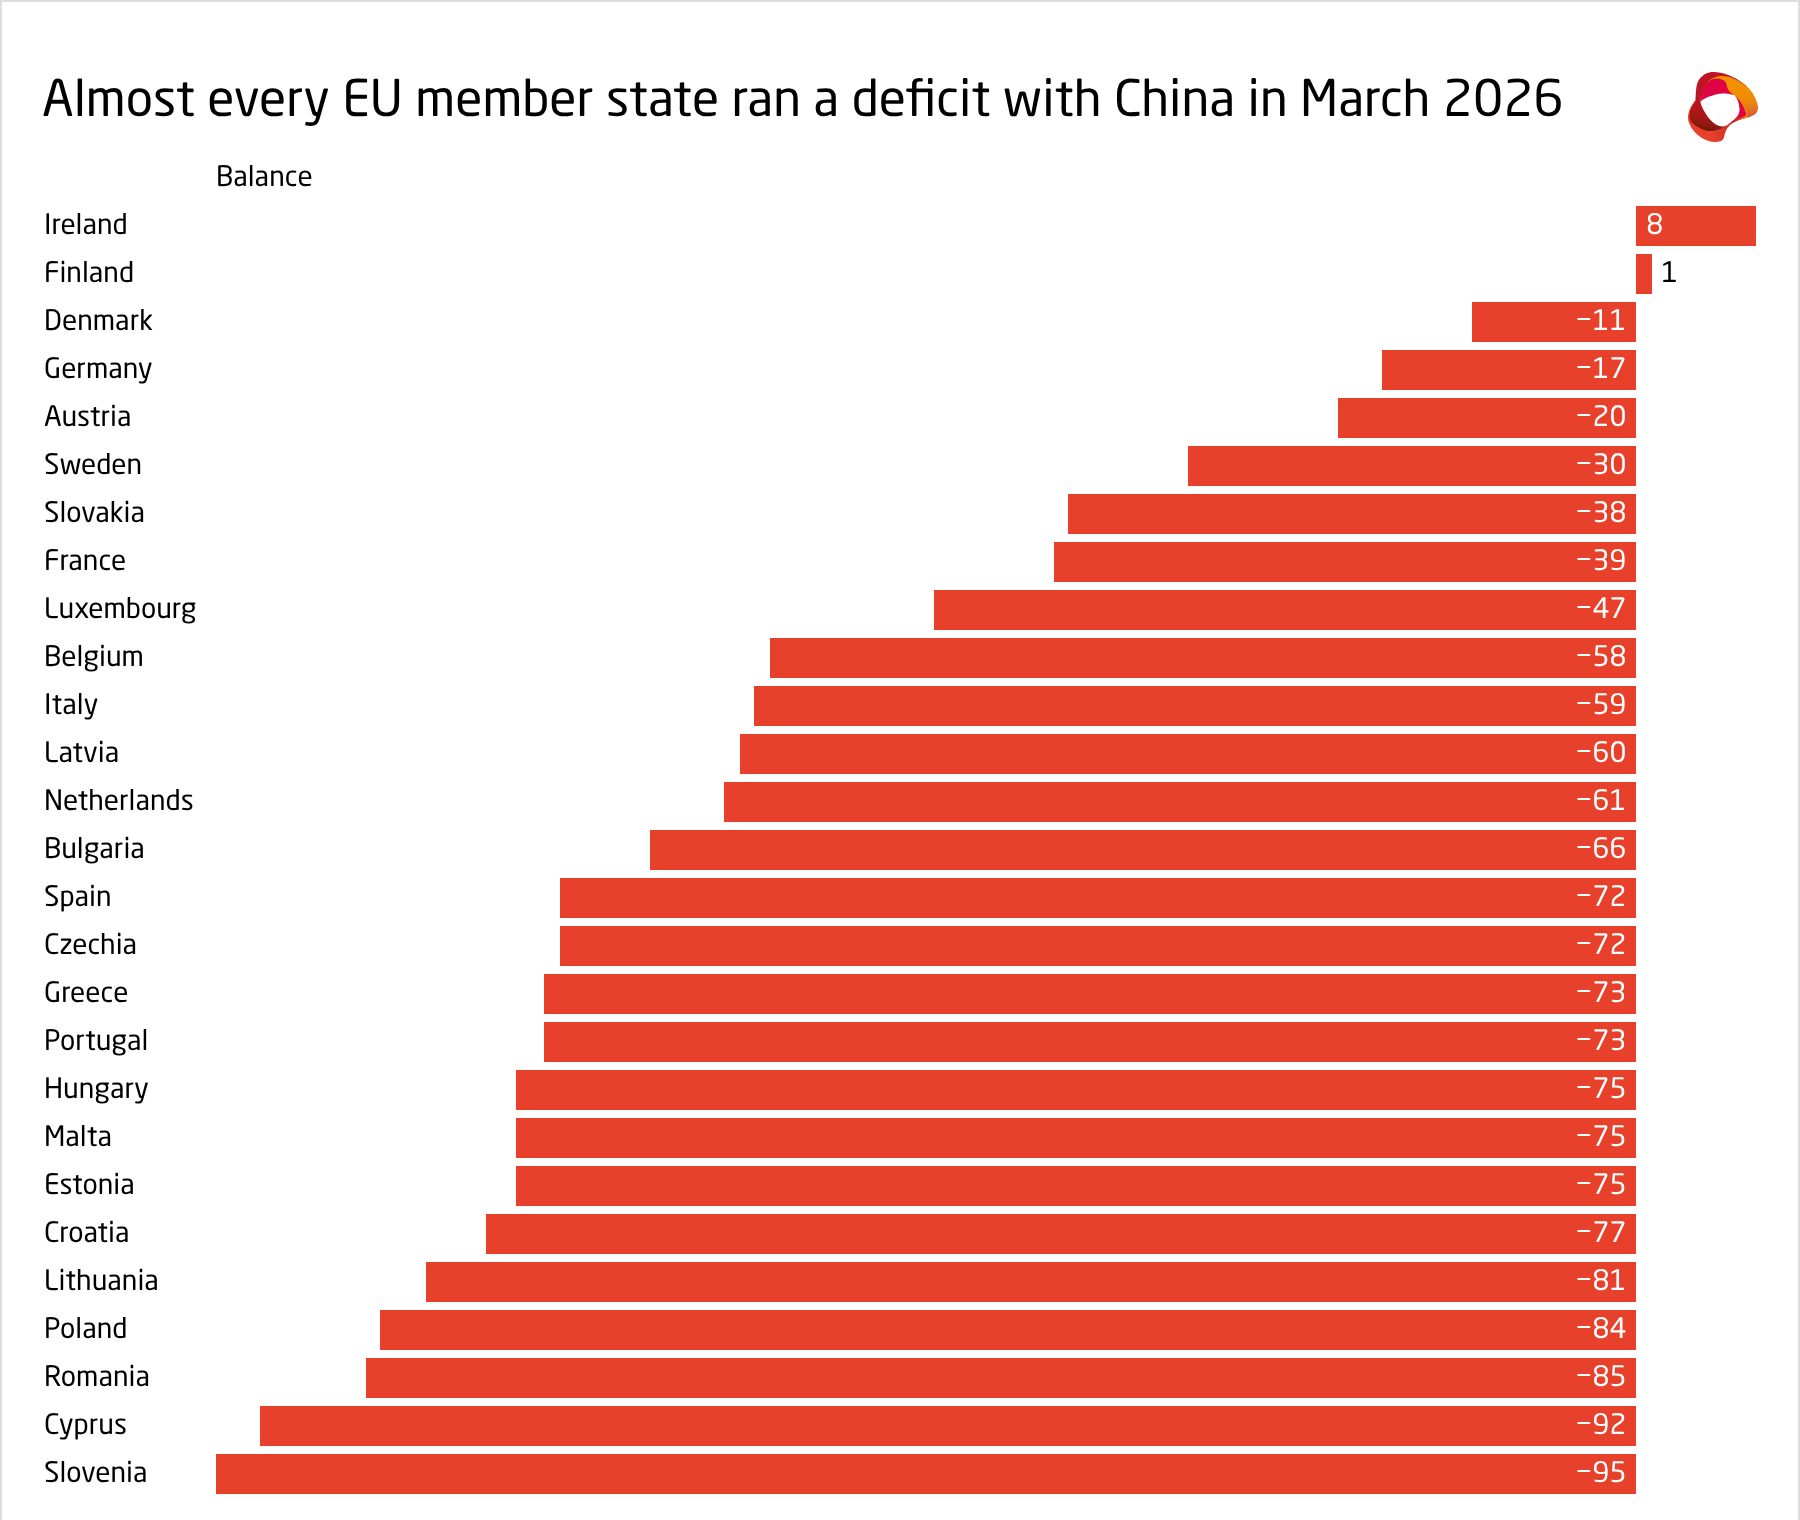
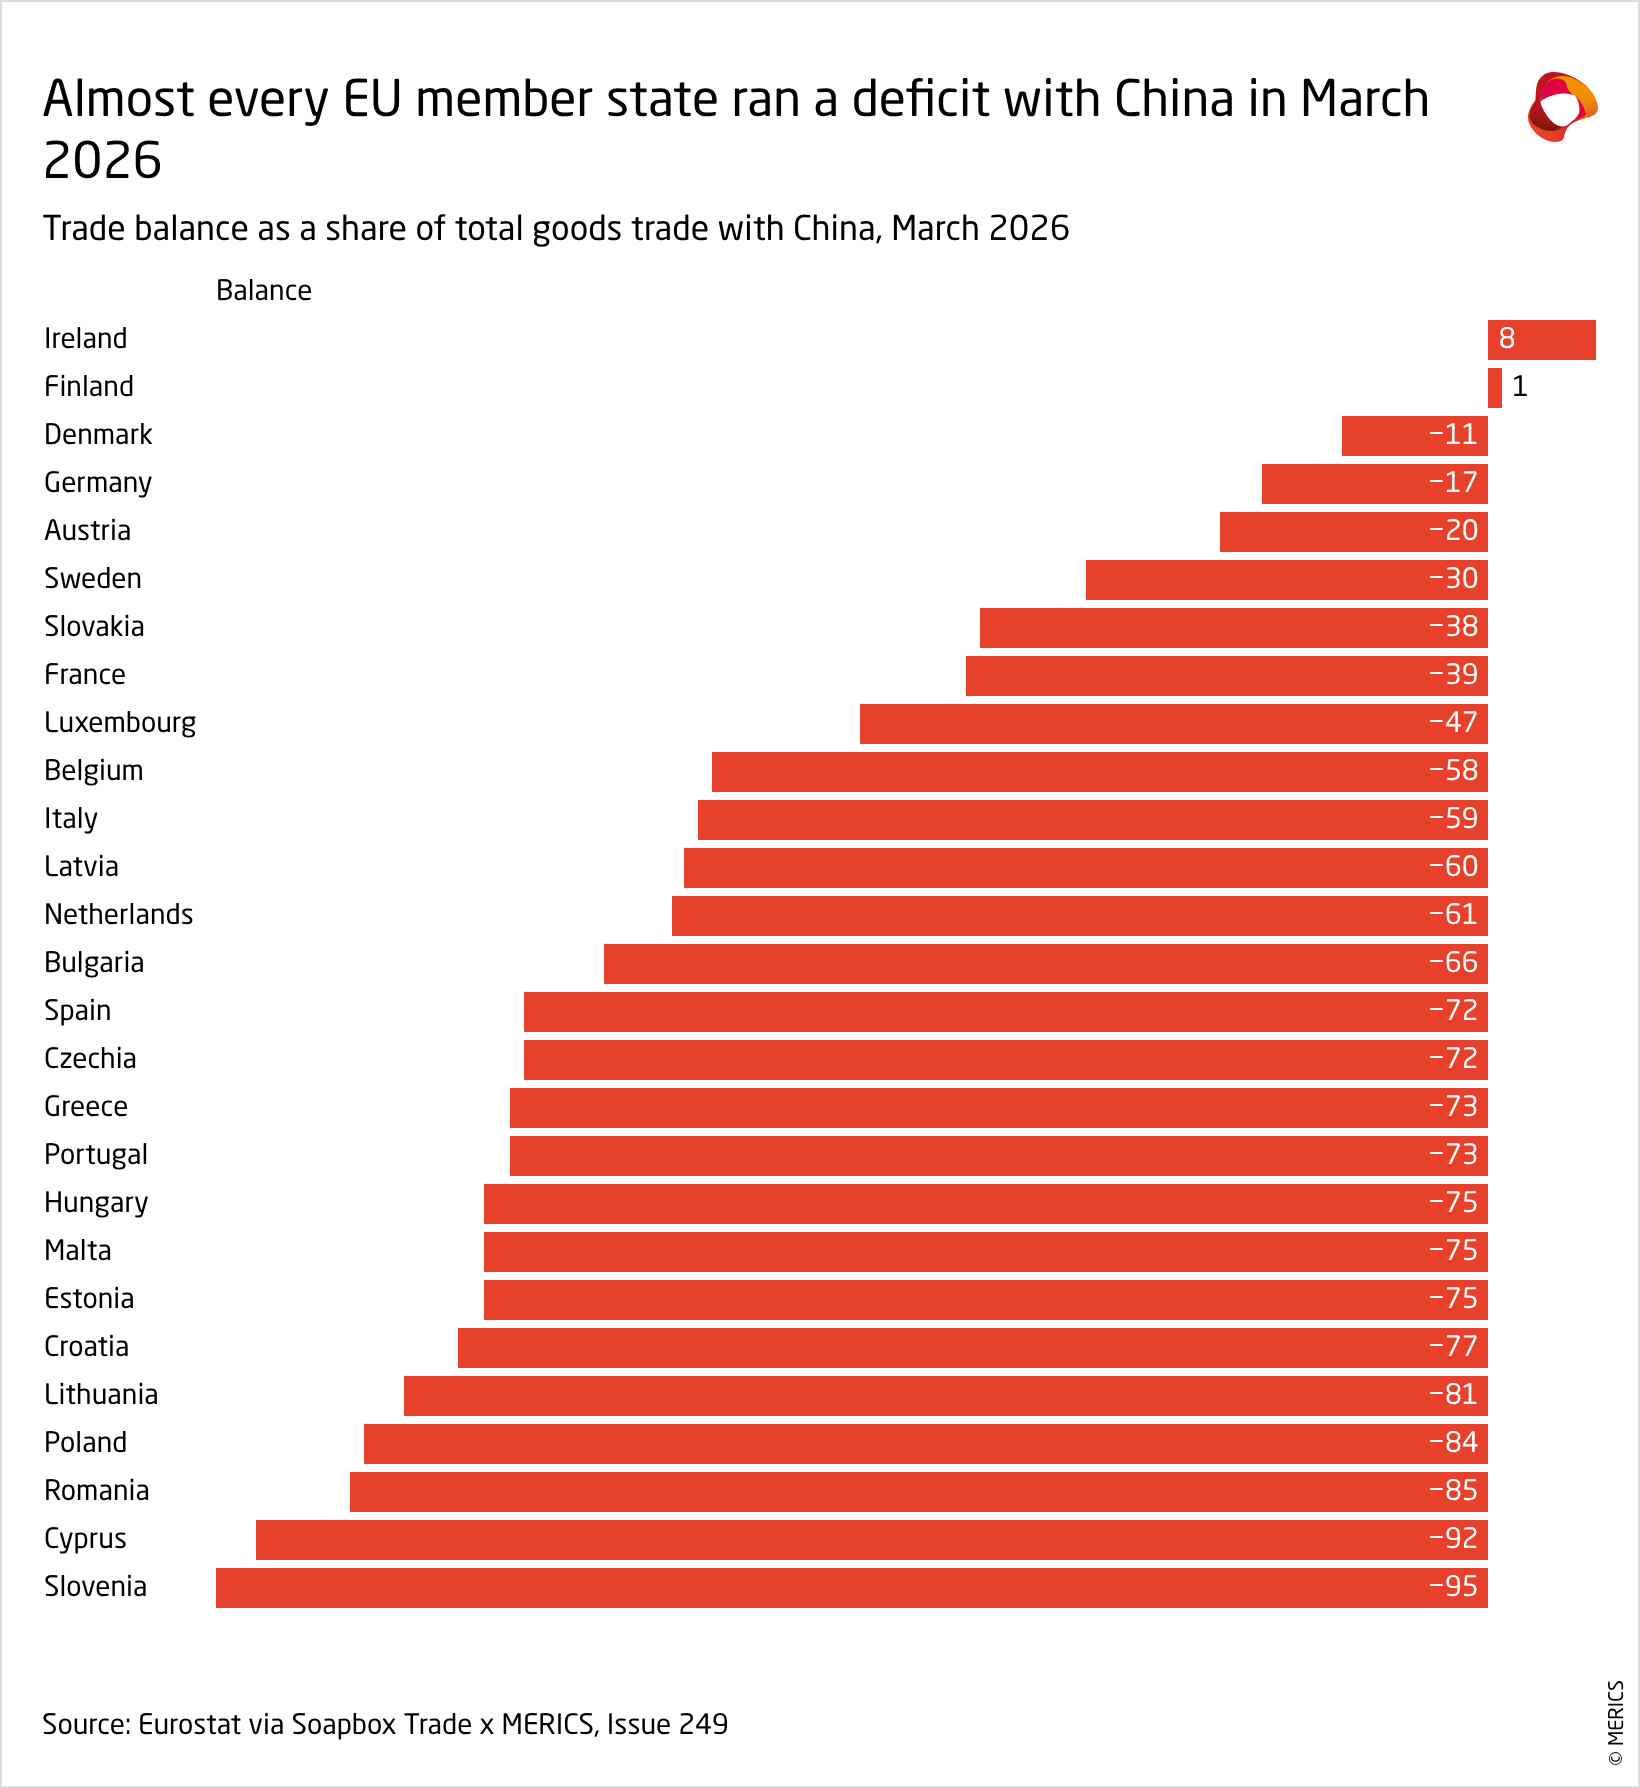
W21: MERICS podcast/Soapbox/Stec split out of Essentials; Chart 4 % unit; cache 20260527n

Changed region(s): [[0.0311, 0.0309, 0.9951, 0.9895], [0.9329, 0.0309, 0.9951, 0.0928], [0.964, 0.9586, 0.9951, 0.9895]]

diff --git a/data/W21-2026.js b/data/W21-2026.js
@@ -386,15 +386,44 @@ window.W21_2026 = {
                 [
                   "",
                   "**Beijing undermines the EU foreign-subsidy investigation by banning data sharing** (Altynay Junusova): Blocking Chinese firms from sharing data with EU investigators turns claims to extraterritorial jurisdiction into a trade problem; the open question is whether Brussels will restrict market access for non-cooperating firms."
-                ],
+                ]
+              ]
+            },
+            {
+              "outlet": "MERICS podcast",
+              "title": "China in 26: diplomatic strength, economic weakness, investment increase",
+              "date": "",
+              "url": "https://merics.org/en/podcast/china-26-diplomatic-strength-economic-weakness-investment-increase",
+              "bullets": [
                 [
                   "",
-                  "**China in 26 podcast** with Claudia Wessling, Bernhard Bartsch and Mikko Huotari on the Xi–Trump and Xi–Putin meetings, China's April economic data, the mood among German firms in China, and Chinese investment in Europe reaching its highest level since 2018 ([Link](https://merics.org/en/podcast/china-26-diplomatic-strength-economic-weakness-investment-increase))."
-                ],
+                  "Claudia Wessling, Bernhard Bartsch and Mikko Huotari on the Xi–Trump and Xi–Putin meetings, China's April economic data, the mood among German firms in China, and Chinese investment in Europe reaching its highest level since 2018."
+                ]
+              ]
+            },
+            {
+              "outlet": "Soapbox Trade × MERICS",
+              "title": "Issue 248 – China's surplus eases but still runs at trillion-dollar scale",
+              "date": "",
+              "url": "https://soapboxtrade.substack.com/p/chinas-surplus-eases-but-still-runs",
+              "bullets": [
                 [
                   "",
-                  "**Soapbox Issue 248** (Soapbox Trade × MERICS) on China's January–April trade data: the surplus eases but still runs at trillion-dollar scale, import growth does not look consumer-led, energy lifts prices but not demand, and the surplus with Africa jumps nearly 50% ([Link](https://soapboxtrade.substack.com/p/chinas-surplus-eases-but-still-runs))."
-                ],
+                  "On China's January–April trade data: the surplus eases but still runs at trillion-dollar scale, import growth does not look consumer-led, energy lifts prices but not demand, and the surplus with Africa jumps nearly 50%."
+                ]
+              ]
+            }
+          ]
+        },
+        {
+          "label": "Briefings & roundtables",
+          "items": [
+            {
+              "outlet": "UK Parliament",
+              "title": "",
+              "date": "",
+              "url": "https://committees.parliament.uk/event/26988",
+              "bullets": [
                 [
                   "",
                   "The [UK Parliament](https://committees.parliament.uk/event/26988) invited Grzegorz Stec for a hearing on the risks of economic engagement with China – competition, economic coercion, supply-chain risks and investment security."